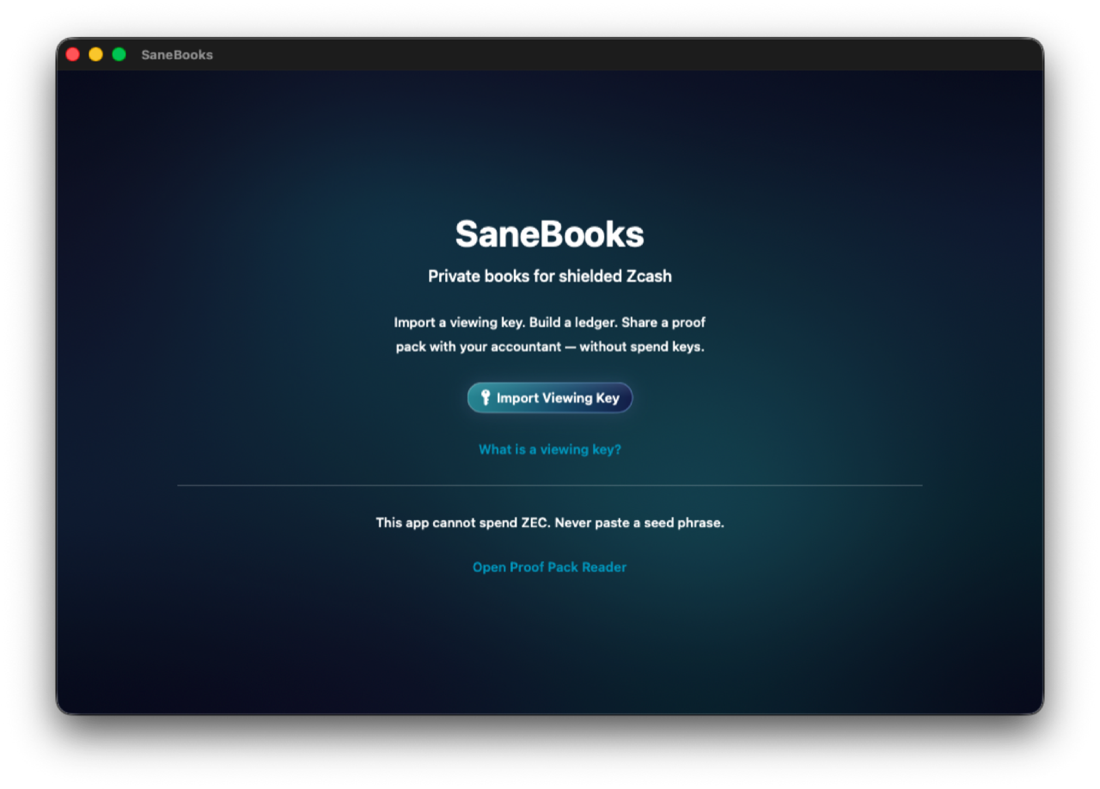
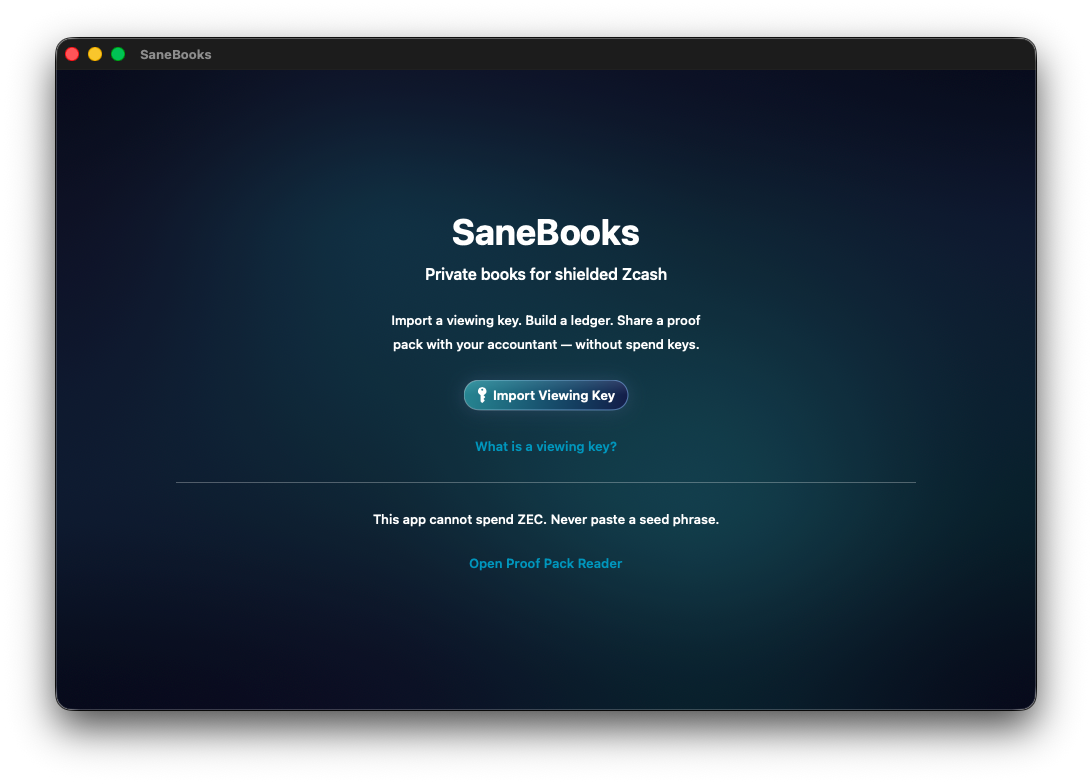
Restore full-quality marketing screenshots and stop tiny thumb scaling.
The published PNGs had been resampled/recompressed, and the README forced 280px widths that looked soft on Retina.

diff --git a/README.md b/README.md
@@ -1,20 +1,27 @@
 # SaneBooks
 
 <p align="center">
-  <img src="docs/marketing/v0.1.0/app-icon.png" width="88" alt="SaneBooks" />
+  <img src="docs/marketing/v0.1.0/app-icon.png" width="96" alt="SaneBooks" />
 </p>
 
 **Private books for shielded Zcash** — Mac-native, local-first. Import a viewing key, classify income / change / expense, and share a scoped proof pack with your accountant. **Cannot spend ZEC.**
 
 **[Download notarized v0.1.0](https://github.com/sane-apps/SaneBooks/releases/tag/v0.1.0)** · **100% Transparent Code** under [PolyForm Shield](LICENSE) (not casual “open source”)
 
-| Welcome | Ledger | Proof pack |
-|:---:|:---:|:---:|
-| <img src="docs/marketing/v0.1.0/01-welcome.png" width="280" alt="Welcome" /> | <img src="docs/marketing/v0.1.0/02-ledger.png" width="280" alt="Ledger" /> | <img src="docs/marketing/v0.1.0/03-proof-pack.png" width="280" alt="Proof pack" /> |
+### Welcome
+<img src="docs/marketing/v0.1.0/01-welcome.png" alt="SaneBooks welcome — import a viewing key" width="1092" />
 
-| Share with disclosure | Accountant Reader |
-|:---:|:---:|
-| <img src="docs/marketing/v0.1.0/04-share-disclosure.png" width="320" alt="Share disclosure" /> | <img src="docs/marketing/v0.1.0/05-reader.png" width="320" alt="Reader" /> |
+### Ledger
+<img src="docs/marketing/v0.1.0/02-ledger.png" alt="Classified ZEC ledger" width="1092" />
+
+### Proof pack
+<img src="docs/marketing/v0.1.0/03-proof-pack.png" alt="New proof pack date range" width="1092" />
+
+### Share with disclosure
+<img src="docs/marketing/v0.1.0/04-share-disclosure.png" alt="Share proof pack disclosure audit" width="1092" />
+
+### Accountant Reader
+<img src="docs/marketing/v0.1.0/05-reader.png" alt="SaneBooks Reader unlock" width="1092" />
 
 CipherPay gets you paid privately. [ZBooks](https://github.com/AustinChris1/ZBooks-SIWZ) runs team treasury. **SaneBooks** is the Mac CPA layer: change ≠ income, and an expiring `.sanebooks` pack — not a permanent UFVK.
 
@@ -88,7 +95,7 @@ xcodegen generate
 
 Direct SwiftPM commands are focused diagnostics only, not release or E2E proof. Debug runs without the sandbox; the Release configuration enables App Sandbox, outbound networking, and user-selected files.
 
-The current Mini audit is green for **109 Swift tests in 13 suites** and **8 executed macOS UI journeys** (with the private-wallet fixture journey explicitly skipped when no local fixture is supplied). This is Debug/test evidence, not sandboxed Release clearance.
+Public distribution is the notarized [GitHub Release v0.1.0](https://github.com/sane-apps/SaneBooks/releases/tag/v0.1.0). Mini `verify --ui` was green before that ship (122 tests including UI journeys). Sparkle auto-update and a marketing site remain off in this lane.
 
 ## Screenshots / visual audit
 

diff --git a/docs/marketing/v0.1.0/RELEASE_NOTES.md b/docs/marketing/v0.1.0/RELEASE_NOTES.md
@@ -39,31 +39,31 @@ Unzip → open `SaneBooks.app`. Gatekeeper should accept it (Notarized Developer
 
 Import a viewing key (or pull history from Zashi / Zodl). The app refuses spend keys and seed phrases.
 
-![Welcome — import a viewing key](https://raw.githubusercontent.com/sane-apps/SaneBooks/main/docs/marketing/v0.1.0/01-welcome.png)
+<img src="https://raw.githubusercontent.com/sane-apps/SaneBooks/main/docs/marketing/v0.1.0/01-welcome.png" alt="Welcome — import a viewing key" width="1092" />
 
 ### 2. Classify the ledger
 
 Income, expenses, and change as separate kinds. YTD totals stay readable; Discreet mode hides balances when you share your screen.
 
-![Ledger with classified ZEC rows](https://raw.githubusercontent.com/sane-apps/SaneBooks/main/docs/marketing/v0.1.0/02-ledger.png)
+<img src="https://raw.githubusercontent.com/sane-apps/SaneBooks/main/docs/marketing/v0.1.0/02-ledger.png" alt="Ledger with classified ZEC rows" width="1092" />
 
 ### 3. Scope a proof pack
 
 Pick the date range that belongs in the handoff. Only notes confirmed in that window go into the pack.
 
-![New Proof Pack — date range](https://raw.githubusercontent.com/sane-apps/SaneBooks/main/docs/marketing/v0.1.0/03-proof-pack.png)
+<img src="https://raw.githubusercontent.com/sane-apps/SaneBooks/main/docs/marketing/v0.1.0/03-proof-pack.png" alt="New Proof Pack — date range" width="1092" />
 
 ### 4. Disclose on purpose
 
 Before save: what is included, what is left out, who it is for, and when it expires. Encrypted pack, CSV, or PDF — you choose how much surface area leaves the Mac.
 
-![Share Proof Pack — disclosure audit](https://raw.githubusercontent.com/sane-apps/SaneBooks/main/docs/marketing/v0.1.0/04-share-disclosure.png)
+<img src="https://raw.githubusercontent.com/sane-apps/SaneBooks/main/docs/marketing/v0.1.0/04-share-disclosure.png" alt="Share Proof Pack — disclosure audit" width="1092" />
 
 ### 5. Accountant opens Reader
 
 No vault key. No chain sync. Unlock the `.sanebooks` file with the passphrase you shared out of band.
 
-![SaneBooks Reader](https://raw.githubusercontent.com/sane-apps/SaneBooks/main/docs/marketing/v0.1.0/05-reader.png)
+<img src="https://raw.githubusercontent.com/sane-apps/SaneBooks/main/docs/marketing/v0.1.0/05-reader.png" alt="SaneBooks Reader" width="1092" />
 
 ---
 
